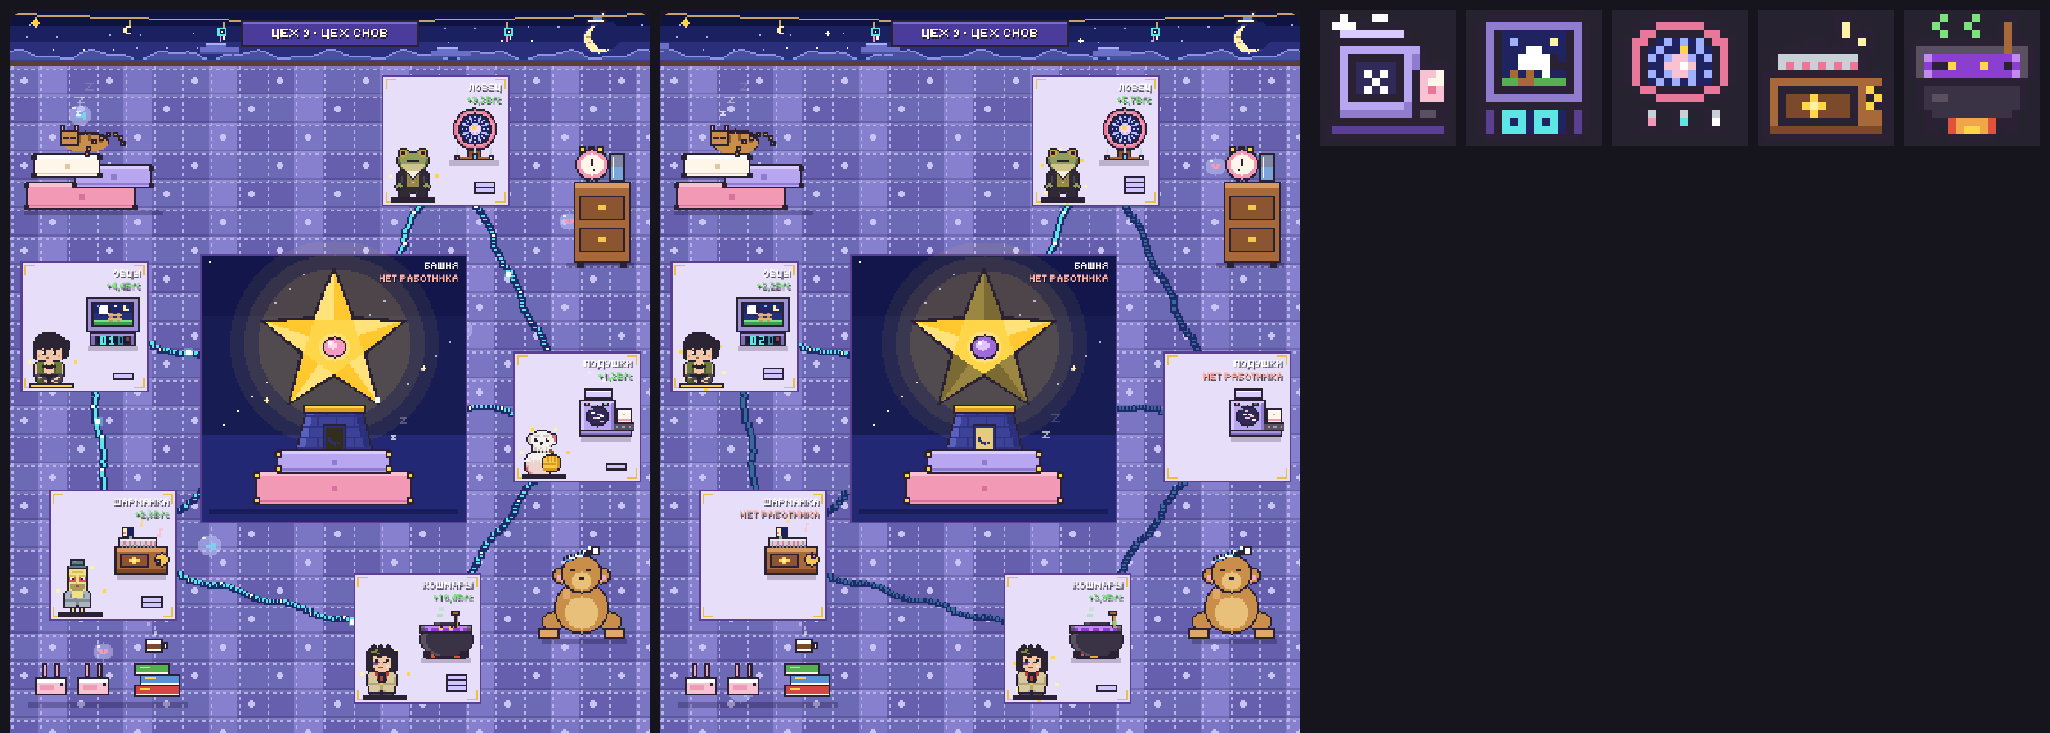
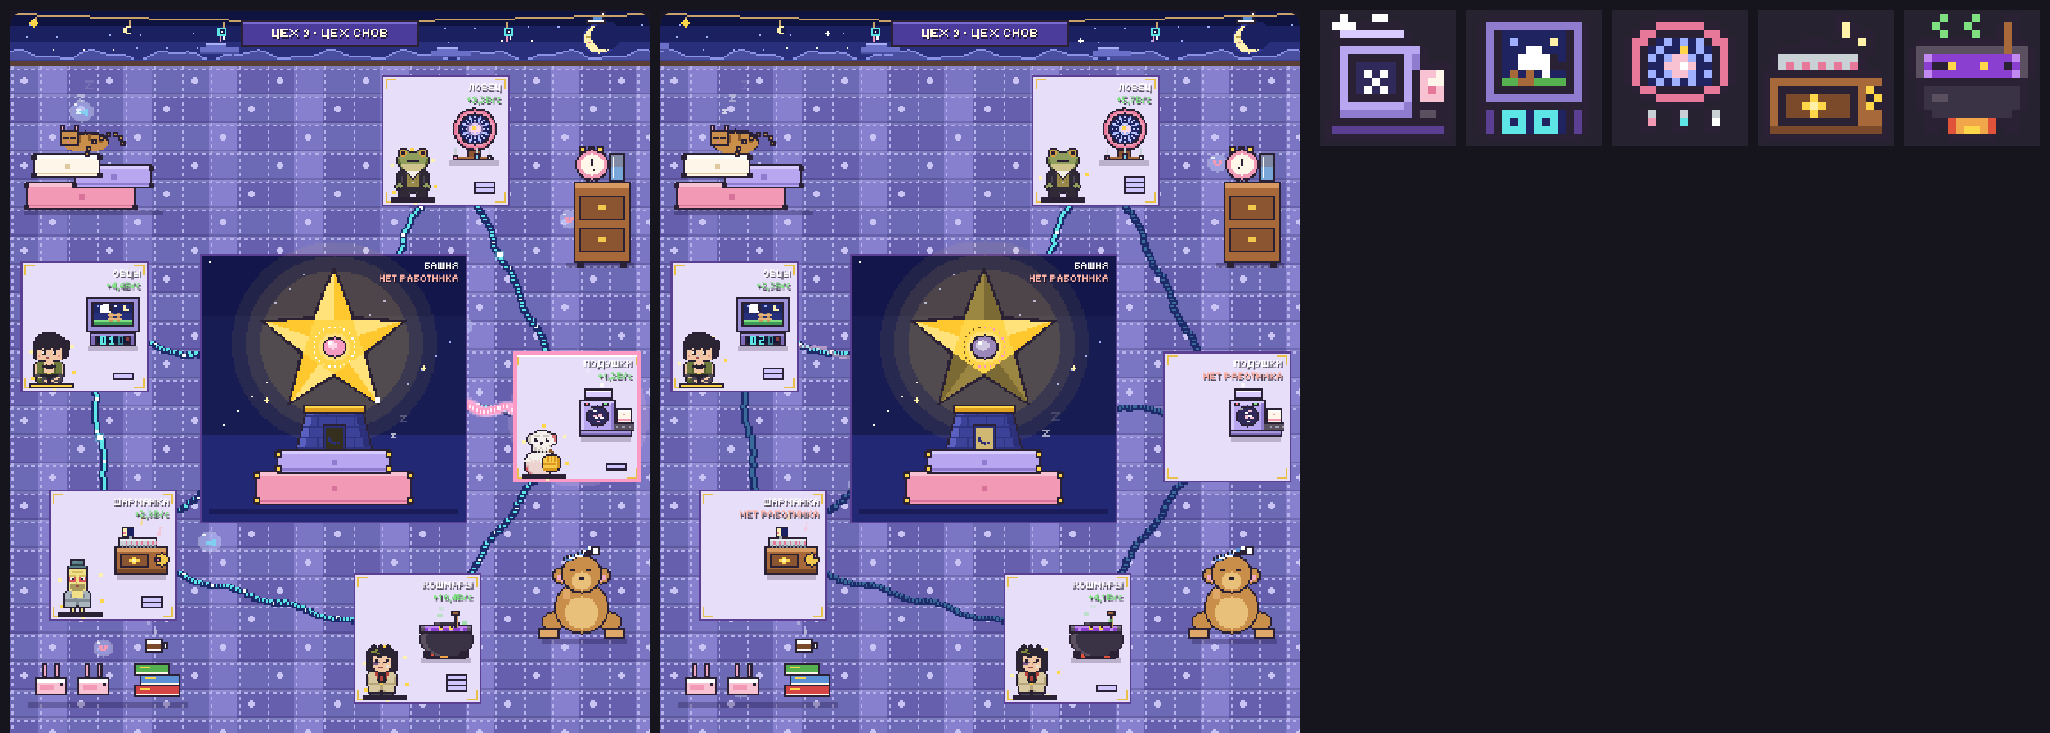
Dream workshop: tower beam mechanic (aimable, recharges), beam and target frame drawn, docs
Claude-Session: https://claude.ai/code/session_016RjMDjdxpoPpEKVEfGz9cJ

diff --git a/drafts/workshop-dreams.js b/drafts/workshop-dreams.js
@@ -6,8 +6,9 @@
 // Места по кругу: 0 левое, 1 левое нижнее, 2 нижнее, 3 правое, 4 правое верхнее, 5 башня.
 // Соседство задано списком, а не по клеткам (как у ледников): цепочка 0–1–2–3–4 и башня с местами 0, 1, 3, 4. Нижнее место 2 башни не касается.
 // Синие полоски на рисунке — «нити снов»: в цеху они нарисованы между соседями и бегут светлячками, когда оба конца работают.
-// Механика башни ещё не выбрана (docs/workshops.md, «Открытые вопросы»): на башне заранее нарисован «сон смены» (шар в звезде, цвет = вид сна)
-// и пять лучей звезды: верхний горит, когда работают все четыре соседа, остальные четыре — по одному на каждого соседа.
+// Механика башни (решено, docs/workshops.md): башня держит один луч на одном из четырёх соседей, run.beam (место 0, 1, 3 или 4),
+// run.beamCd — заряд 0..1. Нажатие на другого соседа перенаводит луч, пока заряд полный. На башне пять лучей звезды:
+// верхний горит, когда работают все четыре соседа, остальные четыре — по одному на каждого соседа.
 // Превью: node drafts/dream-preview.js снимает цех в копии игры, где цех снов стоит вместо пепси.
 
 // ===== LOCS =====
@@ -29,7 +30,7 @@
 //    dreamcatcher: { loc: G, name: 'Ловец снов', short: 'ЛОВЕЦ', rate: 0.5, value: 8e8, max: 1, desc: 'Ловит сны в паутину.' },
 //    lullaby: { loc: G, name: 'Шарманка колыбельных', short: 'ШАРМАНКА', rate: 0.4, value: 1.2e9, max: 1, desc: 'Играет колыбельную, медленно, но дорого.' },
 //    nightmare: { loc: G, name: 'Кошмароварка', short: 'КОШМАРЫ', rate: 0.25, value: 2e9, max: 1, desc: 'Варит кошмары, очень медленно, но очень дорого.' },
-//    dreamtower: { loc: G, name: 'Башня снов', short: 'БАШНЯ', rate: 0, value: 0, max: 1, auto: ?, desc: 'Стартовая, на месте 2×2, без сотрудника. Механика не выбрана.' },
+//    dreamtower: { loc: G, name: 'Башня снов', short: 'БАШНЯ', rate: 0, value: 0, max: 1, auto: ?, desc: 'Стартовая, на месте 2×2, без сотрудника. Механика: луч (docs/workshops.md).' },
 
 // ===== ADJ: в начало adjacent() после if (i === j) return false; =====
     // the dream workshop: a chain 0–1–2–3–4 round the tower and the tower (5) touches 0, 1, 3 and 4
@@ -88,6 +89,19 @@
           if (on && (k + Math.floor(t * 14)) % 9 === 0) R(px, py, 2, 2, '#ffffff');
         }
         if (on) { const f = (t * 0.6 + i * 0.37) % 1; R(ax + (bx - ax) * f - 2, ay + (by - ay) * f - 2, 5, 5, 'rgba(110,240,240,.4)'); R(ax + (bx - ax) * f - 1, ay + (by - ay) * f - 1, 3, 3, '#ffffff'); }
+      }
+
+      // the tower's beam: a bright braid of light from the star to the machine it aims at (run.beam, a place index 0, 1, 3 or 4);
+      // while the tower recharges (run.beamCd < 1) the beam is thin and pale, the target glows once it is ready
+      const bm = state.run.beam;
+      if (bm != null && SLS[bm] && SLS[bm].machine) {
+        const [ax, ay] = rc(5), [bx, by] = rc(bm), len = Math.hypot(bx - ax, by - ay), n = Math.ceil(len / 2), rd = (state.run.beamCd ?? 1) >= 1;
+        for (let k = 0; k <= n; k++) {
+          const f = k / n, wv = Math.round(Math.sin(k * 0.5 - t * 8) * (rd ? 2 : 1)), px = ax + (bx - ax) * f + wv * (ay - by) / len, py = ay + (by - ay) * f + wv * (bx - ax) / len;
+          if (rd) { R(px - 3, py - 2, 7, 6, 'rgba(255,200,240,.35)'); R(px - 2, py - 1, 5, 4, '#ff9ac4'); R(px - 1, py, 3, 2, '#ffffff'); if ((k + Math.floor(t * 12)) % 5 === 0) R(px, py, 2, 2, '#ffffff'); }
+          else R(px, py, 2, 2, 'rgba(255,214,230,.5)');
+        }
+        if (rd) { const [tx, ty] = [colX(P[bm][0]) + SW / 2, rowY(P[bm][1]) + SH / 2], g = 40 + Math.round(Math.sin(t * 4) * 2); disc(tx, ty, g, 'rgba(255,200,240,.16)'); disc(tx, ty, g - 8, 'rgba(255,200,240,.14)'); }
       }
 
       // dream bubbles drift up across the quilt, each with a little picture inside: a heart, a fish, a star, a note
@@ -152,8 +166,11 @@
       R(bk0 + 6, sl1 - 20, 10, 8, K); R(bk0 + 7, sl1 - 19, 8, 6, '#ffffff'); R(bk0 + 7, sl1 - 17, 8, 3, '#7a4a2a'); R(bk0 + 16, sl1 - 18, 3, 4, K); R(bk0 + 17, sl1 - 17, 1, 2, '#ffffff');
       for (let k = 0; k < 3; k++) { const s2 = (t * 0.5 + k / 3) % 1; R(bk0 + 9 + Math.round(Math.sin(s2 * 6 + k) * 2), sl1 - 22 - Math.round(s2 * 14), 2, 2, `rgba(255,255,255,${(0.7 * (1 - s2)).toFixed(2)})`); }
 
+/* ===== MARK: в цикле по местам, сразу после угловых уголков плиты (перед if (!s.machine)) ===== */
+      if (i === state.run.beam && s.machine && (state.run.beamCd ?? 1) >= 1) { const g = Math.floor(t * 4) % 2; R(x, y, ww, 2, '#ff9ac4'); R(x, y + hh - 2, ww, 2, '#ff9ac4'); R(x, y, 2, hh, '#ff9ac4'); R(x + ww - 2, y, 2, hh, '#ff9ac4'); R(x + 2, y + 2, ww - 4, 1, g ? '#ffffff' : '#ffd6e6'); }
+
 /* ===== TOWER: функция рядом с extractor/etalon, рисует Башню снов на слоте 2×2; on = [верхний луч, правый верхний, правый нижний, левый нижний, левый верхний] ===== */
-  function tower(x, y, w, h, on, dream) {
+  function tower(x, y, w, h, on, cd) {
     const cx = x + Math.round(w / 2), cy = y + 50, ell = (ex, ey, rx, ry, col) => { for (let dy = -ry; dy <= ry; dy++) { const ww = Math.round(rx * Math.sqrt(1 - (dy / ry) ** 2)); R(ex - ww, ey + dy, ww * 2 + 1, 1, col); } };
     const tri = (a, b, c, col) => {
       for (let yy = Math.ceil(Math.min(a[1], b[1], c[1])); yy <= Math.floor(Math.max(a[1], b[1], c[1])); yy++) {
@@ -187,9 +204,11 @@
     for (let i = 0; i < 5; i++) ray(i, on[i]);
     for (let k = 0; k < 5; k++) { const a = V[2 * k + 1], b = V[(2 * k + 3) % 10]; tri([cx, cy], a, b, '#ffd54a'); }
     for (let i = 0; i < 5; i++) { const q = V[2 * i]; if (on[i] && Math.floor(t * 3 + i) % 3 === 0) { R(q[0] - 1, q[1] - 1, 3, 3, '#ffffff'); } }
-    // the shift's dream in the middle of the star: a glowing orb that breathes, its colour is the kind of dream
-    const DR = { sweet: ['#f59ac0', '#ffd6e6'], calm: ['#7fd0f0', '#d6f2ff'], night: ['#a06bd8', '#e0c2ff'] }[dream] || ['#f59ac0', '#ffd6e6'], ob = 6 + Math.round(Math.sin(t * 2.2));
+    // the beam's lens in the middle of the star: a glowing orb that breathes, pink when the beam is ready, grey while it recharges
+    const DR = cd >= 1 ? ['#f59ac0', '#ffd6e6'] : ['#9a86b8', '#cfc6e0'], ob = 6 + Math.round(Math.sin(t * 2.2));
     disc(cx, cy + 2, ob + 3, 'rgba(255,255,255,.25)'); disc(cx, cy + 2, ob + 1, K); disc(cx, cy + 2, ob, DR[0]); disc(cx - 1, cy + 1, Math.max(2, ob - 3), DR[1]); R(cx - 3, cy - 1, 2, 2, '#ffffff');
+    // recharge ring round the orb: fills clockwise while the beam recharges, flashes when ready
+    for (let k = 0; k < 24; k++) { const a = -Math.PI / 2 + k / 24 * Math.PI * 2, full = k / 24 < cd; R(cx + Math.round(Math.cos(a) * 11), cy + 2 + Math.round(Math.sin(a) * 11), 1, 1, full ? (cd >= 1 && Math.floor(t * 4) % 2 ? '#ffffff' : '#ff9ac4') : '#6a5a2a'); }
     // twinkles round the star
     for (let k = 0; k < 6; k++) { const a = k * 1.05 + 0.3, rr = 52 + (k % 2) * 5, tx = cx + Math.round(Math.cos(a) * rr), ty = cy + Math.round(Math.sin(a) * rr * 0.9), ph = Math.floor(t * 2 + k * 1.7) % 4; if (ph === 0 && tx > x + 4 && tx < x + w - 5) { R(tx - 1, ty, 3, 1, '#fff1a8'); R(tx, ty - 1, 1, 3, '#fff1a8'); } }
     // the pillow base: two pillows, tassels on the corners, a button; a Z drifts up from them
@@ -199,7 +218,7 @@
     R(x + 5, y + h - 8, w - 10, 3, 'rgba(10,5,40,.35)');
     for (let k = 0; k < 2; k++) { const s = (t * 0.3 + k / 2) % 1, zs = 3 + Math.round(s * 2), px = cx + 30 + Math.round(s * 10), py = y + h - 46 - Math.round(s * 20), a = (0.9 * (1 - s)).toFixed(2); R(px, py, zs, 1, `rgba(255,255,255,${a})`); R(px, py + zs - 1, zs, 1, `rgba(255,255,255,${a})`); for (let d = 1; d < zs - 1; d++) R(px + zs - 1 - d, py + d, 1, 1, `rgba(255,255,255,${a})`); }
   }
-/* в цикле по местам, перед веткой extractor: if (s.machine === 'dreamtower' && big) { const S2 = sl, ok = j => !!(S2[j].machine && S2[j].worker); tower(x, y, ww, hh, [ok(0) && ok(1) && ok(3) && ok(4), ok(4), ok(3), ok(1), ok(0)], state.run.dream || 'sweet'); } else */
+/* в цикле по местам, перед веткой extractor: if (s.machine === 'dreamtower' && big) { const S2 = sl, ok = j => !!(S2[j].machine && S2[j].worker); tower(x, y, ww, hh, [ok(0) && ok(1) && ok(3) && ok(4), ok(4), ok(3), ok(1), ok(0)], state.run.beamCd ?? 1); } else */
 
 /* ===== MACHINES: ветки machine(type, x, y), коробка около 32×30, вставлять перед } else if (type === 'dough') ===== */
     } else if (type === 'fluffer') {

diff --git a/drafts/dream-preview.js b/drafts/dream-preview.js
@@ -13,7 +13,8 @@ rep('    else if (l === 8) {\n', `    else if (l === 8) {\n${block('WALL').repla
 rep('    if (l === 8) {\n', `    if (l === 8) {\n${block('FLOOR').replace(/\bG\b/g, '8')}\n    }\n    if (false) {\n`);
 rep('  function machine(type, x, y) {\n', block('TOWER') + '\n  function machine(type, x, y) {\n');
 rep("    } else if (type === 'dough') {\n", block('MACHINES') + "\n    } else if (type === 'dough') {\n");
-rep("if (s.machine === 'extract' && hh !== SH) extractor(x, y, hh);", "if (s.machine === 'dreamtower' && big) { const ok = j => !!(sl[j].machine && sl[j].worker); tower(x, y, ww, hh, [ok(0) && ok(1) && ok(3) && ok(4), ok(4), ok(3), ok(1), ok(0)], state.run.dream || 'sweet'); }\n        else if (s.machine === 'extract' && hh !== SH) extractor(x, y, hh);");
+rep("if (s.machine === 'extract' && hh !== SH) extractor(x, y, hh);", "if (s.machine === 'dreamtower' && big) { const ok = j => !!(sl[j].machine && sl[j].worker); tower(x, y, ww, hh, [ok(0) && ok(1) && ok(3) && ok(4), ok(4), ok(3), ok(1), ok(0)], state.run.beamCd ?? 1); }\n        else if (s.machine === 'extract' && hh !== SH) extractor(x, y, hh);");
+rep('      if (!s.machine) { const pc', `${block('MARK')}\n      if (!s.machine) { const pc`);
 rep('  if (BOT) window.PF', '  window.PF'); rep('  else requestAnimationFrame(loop);', '  requestAnimationFrame(loop);');
 const file = path.join(tmp, 'dream-game.html'); fs.writeFileSync(file, src);
 (async () => {
@@ -39,7 +40,7 @@ const file = path.join(tmp, 'dream-game.html'); fs.writeFileSync(file, src);
       s.locs[G].unlocked = true;
       const ms = ['sheep', 'lullaby', 'nightmare', 'fluffer', 'dreamcatcher'];
       s.locs[G].slots = ms.map((m, i) => ({ machine: m, worker: mode === 'part' && i % 2 ? null : ws[i], upg: [], acc: 0, kiss: 0 })).concat([{ machine: 'dreamtower', worker: null, upg: [], acc: 0, kiss: 0 }]);
-      s.run.dream = mode === 'full' ? 'sweet' : 'night';
+      s.run.beam = mode === 'full' ? 3 : 0; s.run.beamCd = mode === 'full' ? 1 : 0.55;
       s.cur = G; P.state = s;
     }, mode);
     await p.waitForTimeout(1800);

diff --git a/docs/workshops.md b/docs/workshops.md
@@ -240,7 +240,7 @@
 
 ## Альтернативный цех 9: цех снов (черновик, в игру не вставлен, ботом не проверен)
 
-Цена как у пепси (20T). 5 станков по кругу и в центре Башня снов, золотая звезда на большом месте 2×2. Башня открывается с цехом, карты у неё нет, переставить её нельзя, сотрудник ей не нужен (как Эталон). Места: левое, левое нижнее, нижнее, правое, правое верхнее. Соседство задано списком, как у ледников: цепочка левое – левое нижнее – нижнее – правое – правое верхнее, и башня касается четырёх мест, кроме нижнего. Между соседями нарисованы нити снов, они бегут искрами, когда работают оба конца. Сцена: ночное небо с луной в колпаке, море облаков и гирлянда из звёзд, лун и ловцов снов; пол — лоскутное одеяло. Декор: куча подушек со спящим котом, тумбочка с будильником, плюшевый мишка в колпаке, тапочки-зайцы и стопка книг с какао, плывущие пузыри снов. На башне шар «сна смены» (цвет — вид сна) и пять лучей звезды: верхний горит, когда работают все четыре соседа, остальные — по одному на соседа.
+Цена как у пепси (20T). 5 станков по кругу и в центре Башня снов, золотая звезда на большом месте 2×2. Башня открывается с цехом, карты у неё нет, переставить её нельзя, сотрудник ей не нужен (как Эталон). Места: левое, левое нижнее, нижнее, правое, правое верхнее. Соседство задано списком, как у ледников: цепочка левое – левое нижнее – нижнее – правое – правое верхнее, и башня касается четырёх мест, кроме нижнего. Между соседями нарисованы нити снов, они бегут искрами, когда работают оба конца. Сцена: ночное небо с луной в колпаке, море облаков и гирлянда из звёзд, лун и ловцов снов; пол — лоскутное одеяло. Декор: куча подушек со спящим котом, тумбочка с будильником, плюшевый мишка в колпаке, тапочки-зайцы и стопка книг с какао, плывущие пузыри снов. Механика башни (решено, числа черновые) — луч: башня держит один луч на одном из четырёх соседей (`run.beam`). Цель получает +60% к цене, её соседи по цепочке +20% к цене. Нажатие на другого соседа перенаводит луч в любой момент смены; после этого башня 8 с перезаряжается (`run.beamCd` 0…1), и в это время бонус вдвое слабее. Луч на станок без сотрудника не действует. Рисунок башни: шар в звезде розовый, когда луч готов, и серый при перезарядке, вокруг шара кольцо заряда; цель обведена розовой рамкой, к ней идёт светящаяся нить; пять лучей звезды: верхний горит, когда работают все четыре соседа, остальные — по одному на соседа.
 
 | Станок | Скорость | Цена | Максимум | Что делает |
 |---|---|---|---|---|
@@ -250,6 +250,6 @@
 | Шарманка колыбельных | 0,4/с | 1,2B | 1 | Медленно, но дорого |
 | Кошмароварка | 0,25/с | 2B | 1 | Очень медленно, но очень дорого |
 
-Связки и механика башни ещё не выбраны. Черновик: `drafts/workshop-dreams.js` (блоки для вставки: соседство, стена, пол с декором, башня, 5 анимированных станков), иконки `drafts/dream-icons.js`, превью `drafts/dream-preview.png` снимается `node drafts/dream-preview.js` в копии игры, где цех снов стоит вместо пепси. При вставке: башню в цикле по местам обрабатывать как Эталон (без «НЕТ РАБОТНИКА»), сетка шире привычной (4,55 клетки).
+Связки станков ещё не выбраны. Черновик: `drafts/workshop-dreams.js` (блоки для вставки: соседство, стена, пол с декором, башня, 5 анимированных станков), иконки `drafts/dream-icons.js`, превью `drafts/dream-preview.png` снимается `node drafts/dream-preview.js` в копии игры, где цех снов стоит вместо пепси. При вставке: башню в цикле по местам обрабатывать как Эталон (без «НЕТ РАБОТНИКА»), сетка шире привычной (4,55 клетки).
 
-Открытые вопросы: что делает башня (варианты обсуждаются), связки станков.
+Открытые вопросы: связки станков, числа луча (бонус, перезарядка), луч на станок с картой-комбо и входит ли он в Тройку.
